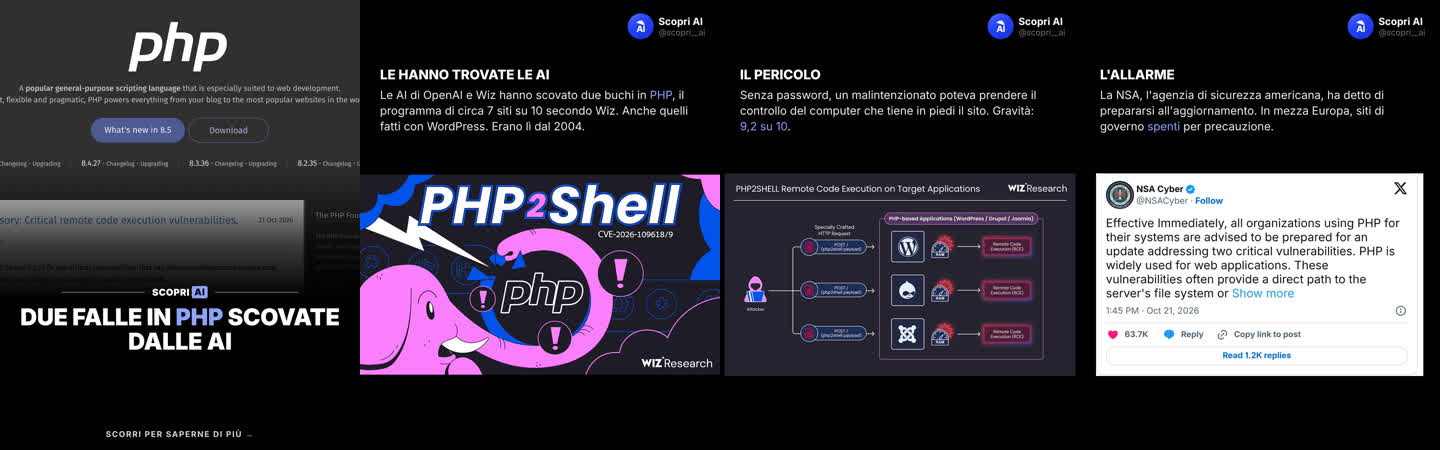
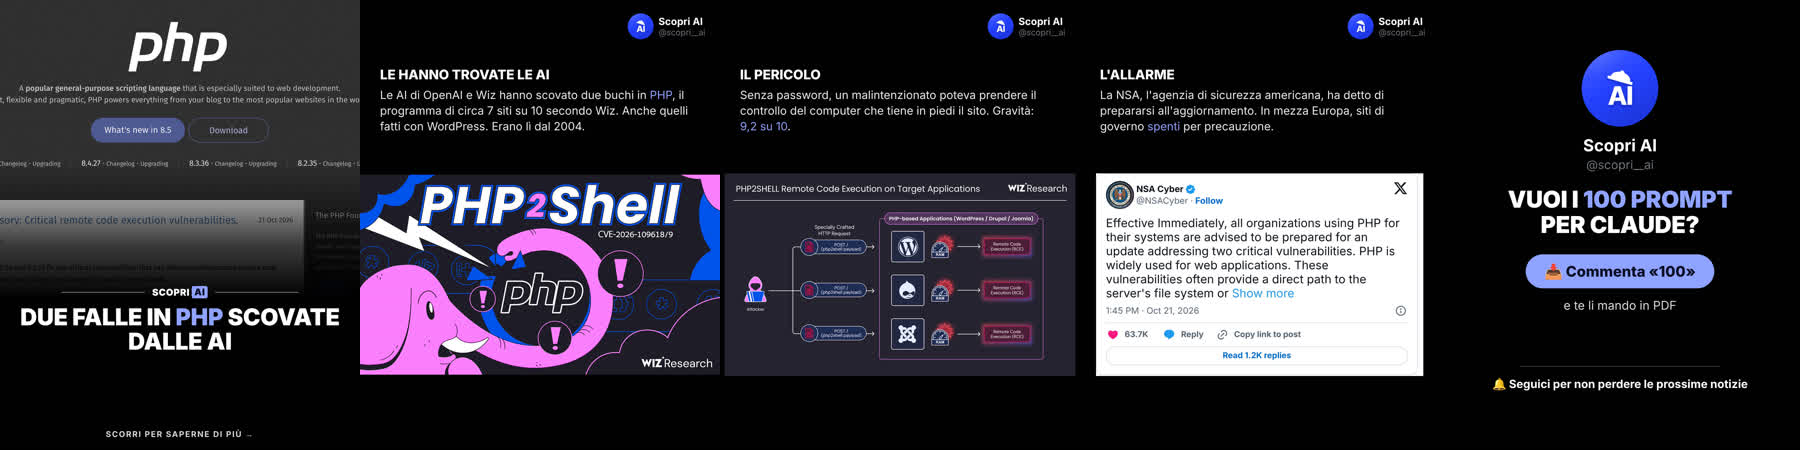
News 22/10 falle PHP: post finale in stile tweet con slide di chiusura (tweet.py: tipo chiusura)
Claude-Session: https://claude.ai/code/session_018eBBukpRRiJvTfJqijn1TA

diff --git a/strumenti/tweet.py b/strumenti/tweet.py
@@ -20,7 +20,10 @@ Il JSON (si può avere solo "reel", solo "carosello" o tutti e due):
     {"tipo": "copertina", "titolo": "Una smart TV piena di pubblicità, *ripulita dall'AI*",
      "media": "media/tv.mp4", "inizio": 0, "durata": 8, "protagonista": "media/volto.jpg", "verticale": 0.5},
     {"tipo": "slide", "titolo": "Cosa è successo", "testo": "Due o tre frasi: chi, cosa, perché conta.",
-     "media": "media/dopo.jpg", "adatta": "contain"}
+     "media": "media/dopo.jpg", "adatta": "contain"},
+    {"tipo": "chiusura", "titolo": "Vuoi i *100 prompt* per Claude?", "pulsante": "📥 Commenta «100»",
+     "testo": "e te li mando in PDF"}     (facoltativa, aggiunta il 22/10/2026 su richiesta del proprietario;
+                                          "seguici" cambia la riga 🔔 in fondo, che c'è sempre)
   ]
 }
 Escono:
@@ -134,6 +137,29 @@ def pagina_slide(s):
                       f'font:400 34px/1.38 Inter;color:rgba(255,255,255,.92)">{marca(s["testo"])}</div>' if s.get("testo") else ""))
 
 
+SEGUICI = "🔔 Seguici per non perdere le prossime notizie"
+
+
+def pagina_chiusura(s):
+    """Slide di chiusura (22/10/2026): fondo nero, il nostro profilo grande, un invito con un pulsante, la riga 🔔."""
+    return documento(1080, 1350, '<div class="nero" style="background:#000"></div>' +
+                     '<div class="abs" style="left:0;top:150px;width:1080px;display:flex;flex-direction:column;align-items:center">'
+                     f'<img src="{AVATAR.as_uri()}" style="width:230px;height:230px;border-radius:50%;display:block">'
+                     '<span style="margin-top:26px;font:700 50px Inter;color:#fff">Scopri AI</span>'
+                     f'<span style="margin-top:6px;font:400 36px Inter;color:{GRIGIO}">@scopri__ai</span></div>' +
+                     '<div class="abs" style="left:0;top:560px;width:1080px;display:flex;flex-direction:column;align-items:center">' +
+                     (f'<div data-max="3" data-nome="titolo della chiusura" style="width:940px;text-align:center;text-wrap:balance;font:900 70px/1.08 Inter;'
+                      f'color:#fff;letter-spacing:-0.5px">{marca(s["titolo"], True)}</div>' if s.get("titolo") else "") +
+                     (f'<div style="margin-top:52px;background:{ACCENTO};color:#0B0E22;border-radius:999px;padding:24px 56px;'
+                      f'font:800 44px Inter">{marca(s["pulsante"])}</div>' if s.get("pulsante") else "") +
+                     (f'<div data-max="2" data-nome="testo della chiusura" style="margin-top:28px;width:900px;text-align:center;'
+                      f'font:400 36px/1.3 Inter;color:rgba(255,255,255,.85)">{marca(s["testo"])}</div>' if s.get("testo") else "") +
+                     '</div>'
+                     '<div class="abs" style="left:240px;top:1098px;width:600px;height:2px;background:rgba(255,255,255,.25)"></div>'
+                     f'<div class="abs" data-max="1" data-nome="riga seguici" style="left:40px;top:1132px;width:1000px;text-align:center;'
+                     f'font:600 34px/1.2 Inter;color:#fff">{marca(s.get("seguici", SEGUICI))}</div>')
+
+
 def fotografa(html_txt, W, H, tmp, nome):
     f = tmp / f"{nome}.html"
     f.write_text(html_txt, encoding="utf-8")
@@ -227,11 +253,12 @@ def main():
             for i, s in enumerate(slides, 1):
                 nn = f"{i:02d}"
                 copertina = s.get("tipo") == "copertina"
-                pg = pagina_copertina(s, cartella) if copertina else pagina_slide(s)
+                chiusura = s.get("tipo") == "chiusura"
+                pg = pagina_copertina(s, cartella) if copertina else pagina_chiusura(s) if chiusura else pagina_slide(s)
                 cornice, fin = fotografa(pg, 1080, 1350, tmp, f"slide-{nn}")
                 if overlay and i <= 2:
                     shutil.copy(cornice, uscite / f"overlay-{'copertina' if copertina else 'slide-interna'}.png")
-                if not s.get("media"):
+                if chiusura or not s.get("media"):
                     shutil.copy(cornice, uscite / f"slide-{nn}.png")
                     continue
                 media = cartella / s["media"]

diff --git a/carousels/2026-10-22-news-falle-php/note.md b/carousels/2026-10-22-news-falle-php/note.md
@@ -1,0 +1,43 @@
+# Note — 2026-10-22-news-falle-php (FINALE, stile tweet)
+
+## Cosa è stato fatto
+- Proprietario: bozza tweet approvata con una correzione, «nel carosello metti anche la slide di chiusura». Aggiunta la slide 05 di chiusura, anche se `format/6-stile-tweet.md` dice «niente slide di chiusura»: vale la richiesta del proprietario.
+- Per farla ho aggiunto a `strumenti/tweet.py` un tipo `"chiusura"` piccolo e retrocompatibile (i JSON vecchi escono identici): fondo nero, foto profilo grande, «Scopri AI» e «@scopri__ai», titolo MAIUSCOLO con accento `#8FA3FF`, pulsante lilla, testo sotto e la riga «🔔 Seguici per non perdere le prossime notizie» (sempre presente, cambiabile con `"seguici"`). Invito uguale a quello della caption: «Commenta «100»» per i 100 prompt in PDF.
+- Copertina scelta: la principale (DUE FALLE IN PHP SCOVATE DALLE AI). `exports/copertina-b.png` (HAI UN SITO? AGGIORNA PHP SUBITO) resta come alternativa.
+- Nessun video vero: tutte PNG, nessun MP4.
+- `publish-pack.py`: CAPTION PRONTA, nessun avviso (testi alternativi accorciati sotto i 140 caratteri).
+- Commento fissato: il messaggio da mandare a chi gestisce il sito (versioni 8.5.12, 8.4.27, 8.3.36, 8.2.35; PHP 8.1 o più vecchio va cambiato).
+- La versione Electric Mono resta in `exports/electric-mono/` (non toccata).
+
+## Dubbi
+- **NSA:** il post dice «be prepared for an update» (prepararsi all'aggiornamento), non «spegnete i siti». Per questo la slide 4 dice «ha detto di prepararsi all'aggiornamento» e non «aggiorna o spegni».
+- **Siti di governo spenti:** BBC li riporta (Finlandia, Francia, agenzia olandese per la sicurezza informatica, porto di Rotterdam). «In mezza Europa» è un riassunto: se si vuole più prudenza, «in diversi paesi europei».
+- **Parlamento olandese** (era nel menu): non ritrovato nelle fonti lette, lasciato fuori.
+- **DeviantArt e Pokémon Home:** spenti, ma la BBC non dice che è per PHP: lasciati fuori.
+- **«Circa 7 siti su 10»:** è la stima di Wiz (W3Techs 69,3% dei siti di cui si conosce il linguaggio); in slide c'è «secondo Wiz».
+- **«Erano lì dal 2004»:** Wired, TechCrunch e BBC dicono da PHP 5 (luglio 2004); Wiz scrive «almeno da PHP 5.4». La caption dice anche che la PHP Foundation aveva visto i primi segnali nel 2024 (non «nessuno lo sapeva»).
+- **OpenAI «Patch the Planet»:** pagina non leggibile da qui, citata da TechCrunch e The Verge.
+- **Invito ai 100 prompt** (chiusura e caption): il PDF lo manda il proprietario in privato a chi commenta «100»; serve che sia pronto (post `2026-10-23-prompt-100-claude`).
+- **Formato stile tweet con la chiusura:** è la prima volta; se piace, si può aggiornare `format/6-stile-tweet.md` (oggi dice «niente slide di chiusura»). Non l'ho cambiato: decide il proprietario.
+
+## Musica consigliata
+Umore: tensione da «allarme informatico», solo strumentale. Già usati o consigliati di recente (`brand/musica-usata.md` e note dei post precedenti): Daft Punk, Justice, M83, Henry Mancini, Lalo Schifrin, Moderat, Jon Hopkins, Ratatat, Chemical Brothers, Kavinsky, Gesaffelstein, Boards of Canada, Aphex Twin, Röyksopp, Mr. Oizo, Vitalic, Boys Noize, Nujabes, Idealism, Kupla: nessuno di questi qui.
+1. **Trent Reznor & Atticus Ross – In Motion** (strumentale, dalla colonna sonora di The Social Network: pulsante e tesa, aria da hacker).
+2. **Carpenter Brut – Turbo Killer** (strumentale, synthwave carica; partire da dove entra il ritmo).
+3. **Tangerine Dream – Love on a Real Train** (strumentale, elettronica ipnotica e più calma, se si vuole lasciare leggere le slide).
+Il proprietario controlla che ci siano nella libreria di Instagram; se tra le canzoni con ↗ c'è una strumentale adatta, ha la precedenza. Il brano scelto va scritto in `brand/musica-usata.md`.
+
+## Orari consigliati
+Notizia calda (uscita il 21/10): oggi giovedì 22/10 tra le 12:30 e le 13:30, oppure tra le 18:30 e le 20:00. Non oltre domani: dopo perde freschezza.
+
+## Controllo finale (`brand/controllo-finale.md`, parte applicabile allo stile tweet)
+- Copertina: titolo di 7 parole, 2 righe, MAIUSCOLO (regola dello stile tweet, non il `.kicker` del carosello); elemento vero e grande (php.net) nei primi 900 px; «SCORRI PER SAPERNE DI PIÙ» in fondo. OK.
+- Seconda slide collegata alla copertina («Le hanno trovate le AI») e in piedi da sola. Il meglio in 2 e 3. OK.
+- Si dice cosa ha fatto l'AI («hanno scovato»), non cosa le hanno chiesto. OK.
+- Testi entro i limiti (il programma si ferma se no). Nessun contatore, nessuna etichetta di rubrica, nessun @ in basso a sinistra, nessuna scritta sotto le immagini, immagini intere. OK.
+- Fonti solo in caption; nessun nome d'autore sulle slide (il marchio Wiz è dentro le immagini ufficiali stesse). OK.
+- Un solo invito (Commenta «100»), uguale in chiusura e in caption, più la domanda «Tu cosa ne pensi?»; 🔔 Seguici solo sull'ultima slide. OK.
+- Caption 789 caratteri (sotto 800), prima riga sotto i 125, 5 hashtag, niente elenchi di parole chiave. OK.
+- Notizia con più di 2 fonti; niente esagerazioni (NSA riportata alla lettera). OK.
+- 1080×1350 per tutte le slide. OK.
+- Non applicabili: riquadro blu `.em` e barra blu (sono del carosello Electric Mono; lo stile tweet usa l'accento lilla), slide «In breve» (sono solo 5 slide), Reel (nessun video).

diff --git a/carousels/2026-10-22-news-falle-php/copy.md b/carousels/2026-10-22-news-falle-php/copy.md
@@ -1,6 +1,6 @@
-# Versione STILE TWEET (bozza del 22/10/2026, richiesta del proprietario)
+# Versione STILE TWEET (FINALE del 22/10/2026, approvata dal proprietario con l'aggiunta della slide di chiusura)
 
-_File: `tweet.json` (copertina + 3 slide interne, niente chiusura) e `tweet-b.json` (solo copertina b). Resi con `python3 strumenti/tweet.py … --anteprima` in `exports/slide-01…04.png`, `exports/contact-sheet.jpg`, `exports/copertina-b.png`. La chiave "reel" di `tweet.json` la aggiunge il costruttore del Reel._
+_File: `tweet.json` (copertina + 3 slide interne + chiusura, aggiunta su richiesta del proprietario) e `tweet-b.json` (solo copertina b). Resi con `python3 strumenti/tweet.py … --anteprima` in `exports/slide-01…04.png`, `exports/contact-sheet.jpg`, `exports/copertina-b.png`. La chiave "reel" di `tweet.json` la aggiunge il costruttore del Reel._
 
 ### 01 — Copertina
 - **Titolo (2 righe, maiuscolo):** DUE FALLE IN *PHP* / SCOVATE DALLE AI (accento lilla su «PHP»)
@@ -19,7 +19,14 @@ _File: `tweet.json` (copertina + 3 slide interne, niente chiusura) e `tweet-b.js
 - **Media:** screenshot del post vero di @NSACyber del 21/10 (`media/nsa-post.png`), intero.
 - Nota: il post NSA dice "be prepared for an update" (prepararsi all'aggiornamento), non "spegnete": per questo qui non scriviamo "aggiorna o spegni" come nella versione Electric Mono.
 
-### Copertina b (`exports/copertina-b.png`)
+### 05 — Chiusura (aggiunta nel finale, richiesta del proprietario)
+- **Profilo grande:** foto profilo, «Scopri AI», «@scopri__ai»
+- **Titolo (maiuscolo):** VUOI I *100 PROMPT* / PER CLAUDE? (accento lilla su «100 prompt»)
+- **Pulsante lilla:** 📥 Commenta «100»
+- **Sotto:** e te li mando in PDF
+- **In fondo:** 🔔 Seguici per non perdere le prossime notizie
+
+### Copertina b (`exports/copertina-b.png`, alternativa non scelta)
 - **Titolo:** HAI UN SITO? AGGIORNA / *PHP* SUBITO · stessa schermata di php.net
 
 ### Caption (stile tweet, controllata con `caption_check.py --stile tweet`: CAPTION PRONTA, 789 caratteri, 5 hashtag)

diff --git a/carousels/2026-10-22-news-falle-php/fonti.md b/carousels/2026-10-22-news-falle-php/fonti.md
@@ -1,0 +1,28 @@
+# Fonti — Due falle in PHP scovate dalle AI (22/10/2026, stile tweet)
+
+Consultate il 22/10/2026.
+
+## Notizia (almeno 2 fonti affidabili: regola 1)
+- PHP Foundation, 21/10/2026 — https://thephp.foundation/blog/2026/10/21/todays-php-security-release-and-how-were-strengthening-php-security/
+- php.net, avviso di sicurezza del 21/10/2026 e nuove versioni — https://www.php.net/
+- Wiz Research, «PHP2Shell» — https://www.wiz.io/blog/php2shell-php-rce
+- Wired — https://www.wired.com/story/this-is-not-a-drill-2-php-vulnerabilities-are-setting-the-internet-on-fire/
+- BBC — https://www.bbc.co.uk/news/articles/cmly0lg3w5x2o
+- TechCrunch, 21/10/2026 — https://techcrunch.com/2026/10/21/php-armageddon-openai-googles-wiz-find-ancient-holes-panicking-the-internet/
+- The Verge — https://www.theverge.com/tech/1015906/php2shell-vulnerability-october-2026
+- NSA Cyber su X, 21/10/2026 — https://x.com/NSACyber/status/2112903220209098897
+- WordPress su X — https://x.com/WordPress/status/2112907323265917274
+- OpenAI, «Patch the Planet» — https://openai.com/index/coordinated-disclosure-of-critical-vulnerabilities/ (non leggibile da qui: citata da TechCrunch e The Verge)
+
+In caption: «Fonti: PHP Foundation, Wiz, OpenAI, Wired, BBC, TechCrunch, The Verge».
+
+## Immagini (tutte vere, a colori, nessuna generata)
+| Slide | File | Chi l'ha fatta |
+|---|---|---|
+| 01 copertina (e copertina-b) | `media/phpnet-copertina.jpg` | screenshot nostro di php.net (22/10/2026); logo e testi della PHP Foundation |
+| 02 | `media/wiz-php2shell.png` | illustrazione ufficiale «PHP2Shell» di Wiz Research (dal loro blog) |
+| 03 | `media/wiz-schema-attacco.png` | schema ufficiale dell'attacco di Wiz Research (dal loro blog) |
+| 04 | `media/nsa-post.png` | screenshot nostro del post di @NSACyber su X del 21/10/2026 (il post è esso stesso la notizia, `fonti.md` "Storie virali") |
+| 05 chiusura | `brand/logo/ufficiale/foto-profilo.png` | nostro logo |
+
+Nessun video in questo post: tutte le slide sono PNG.
